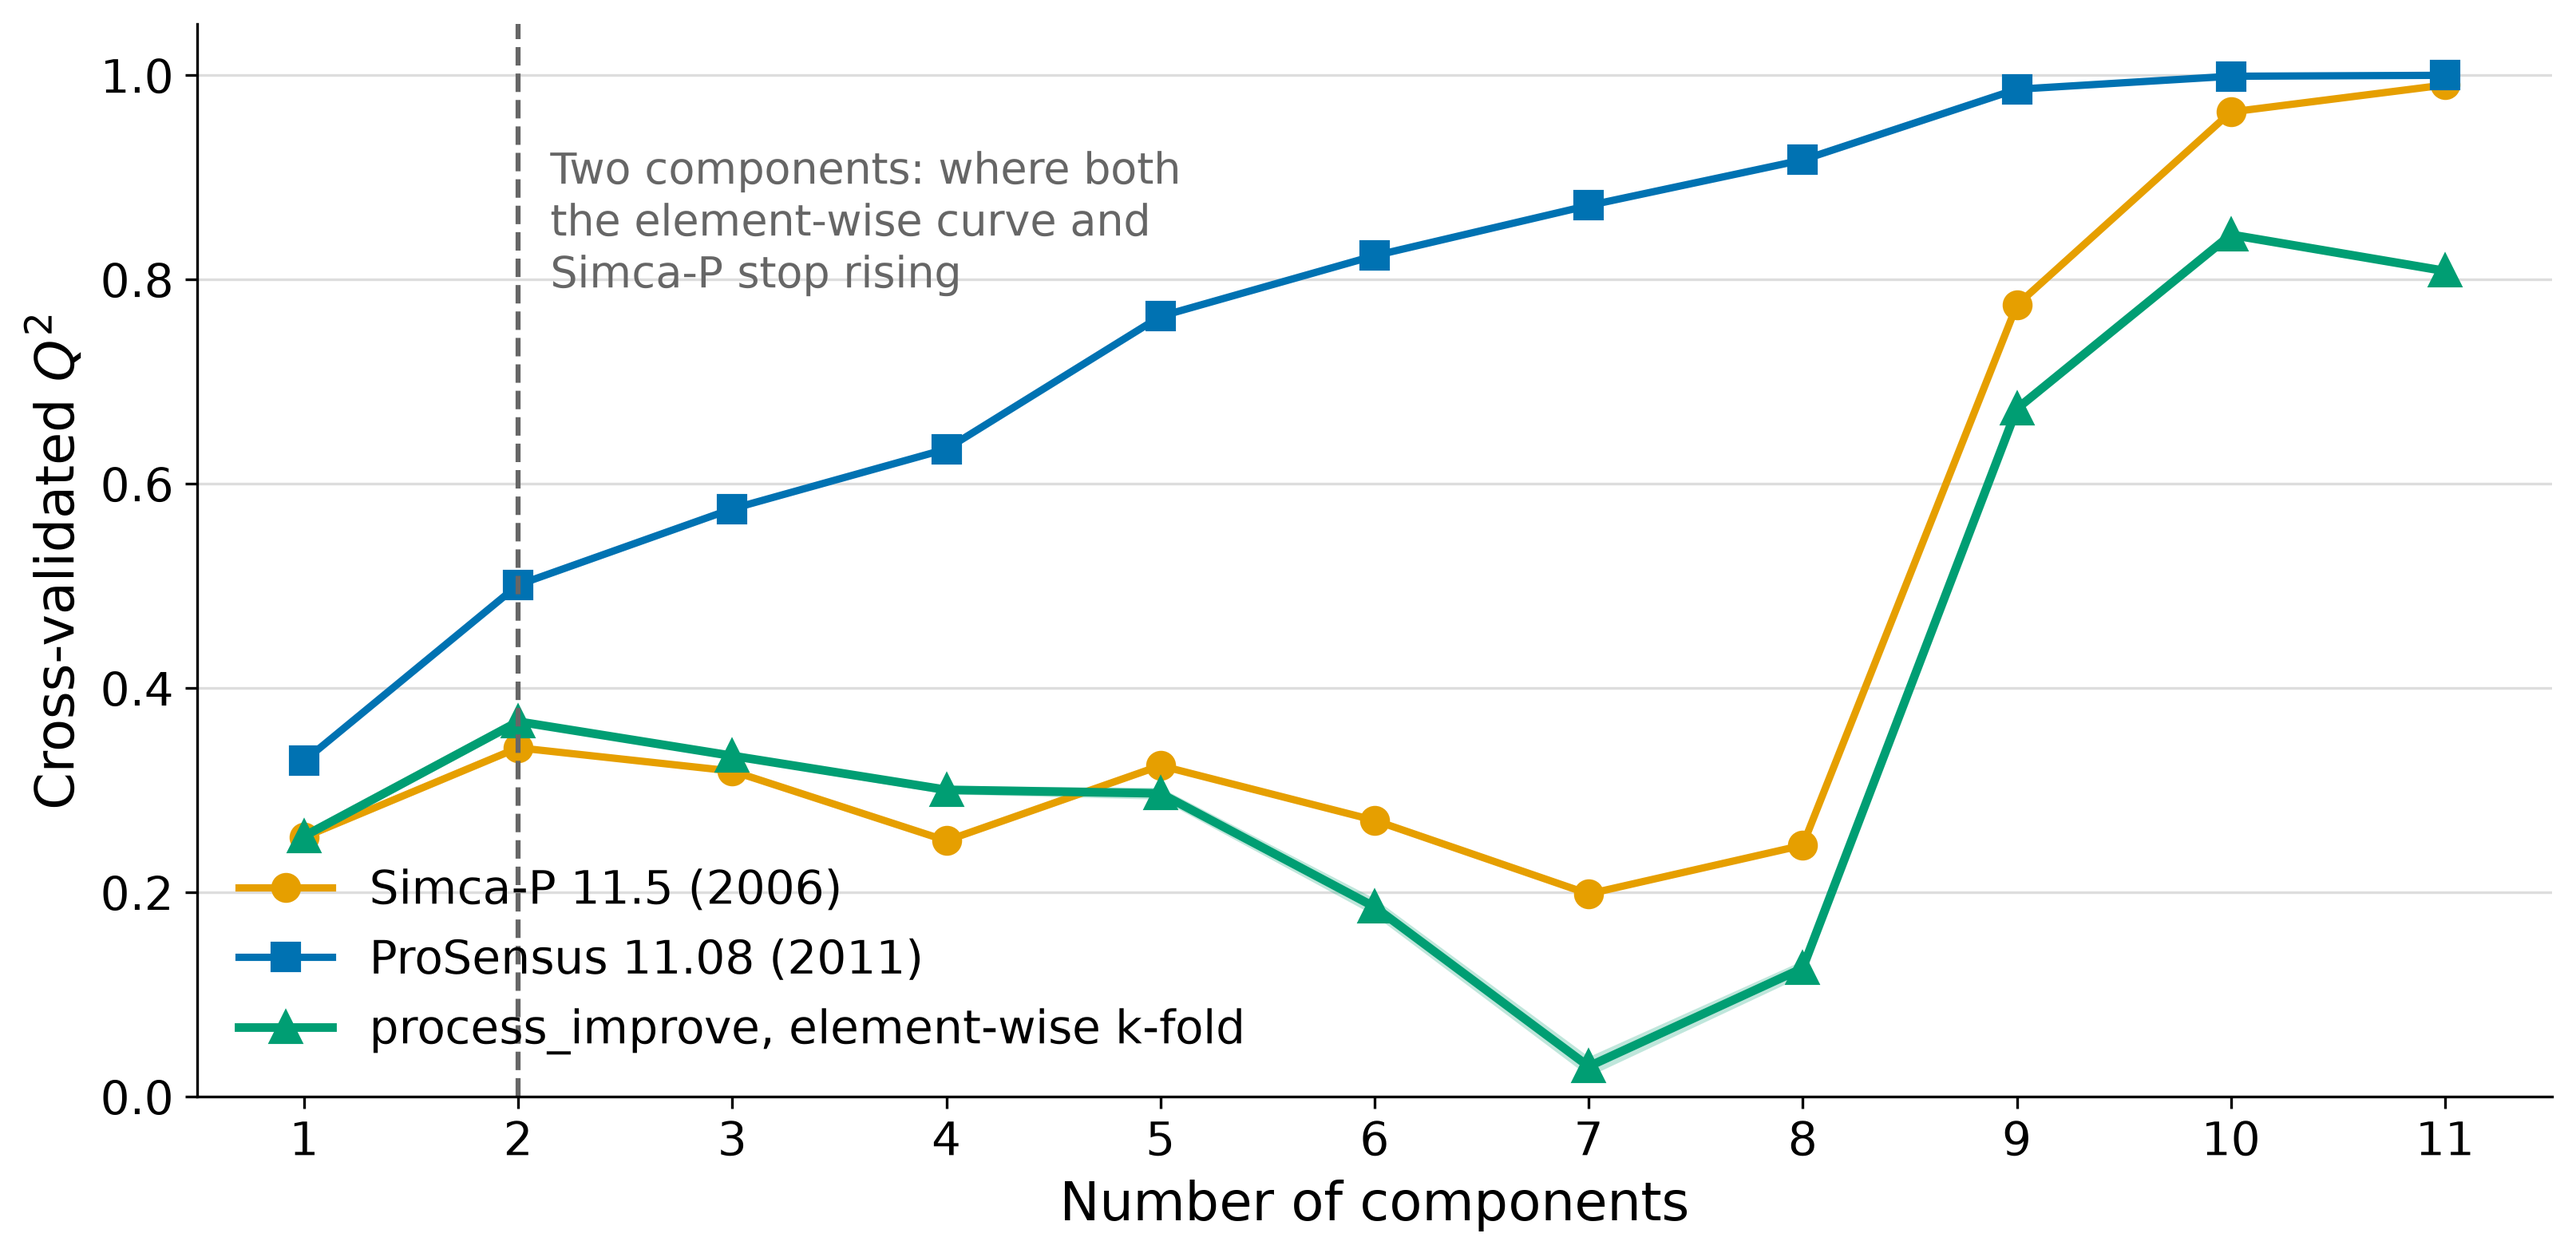
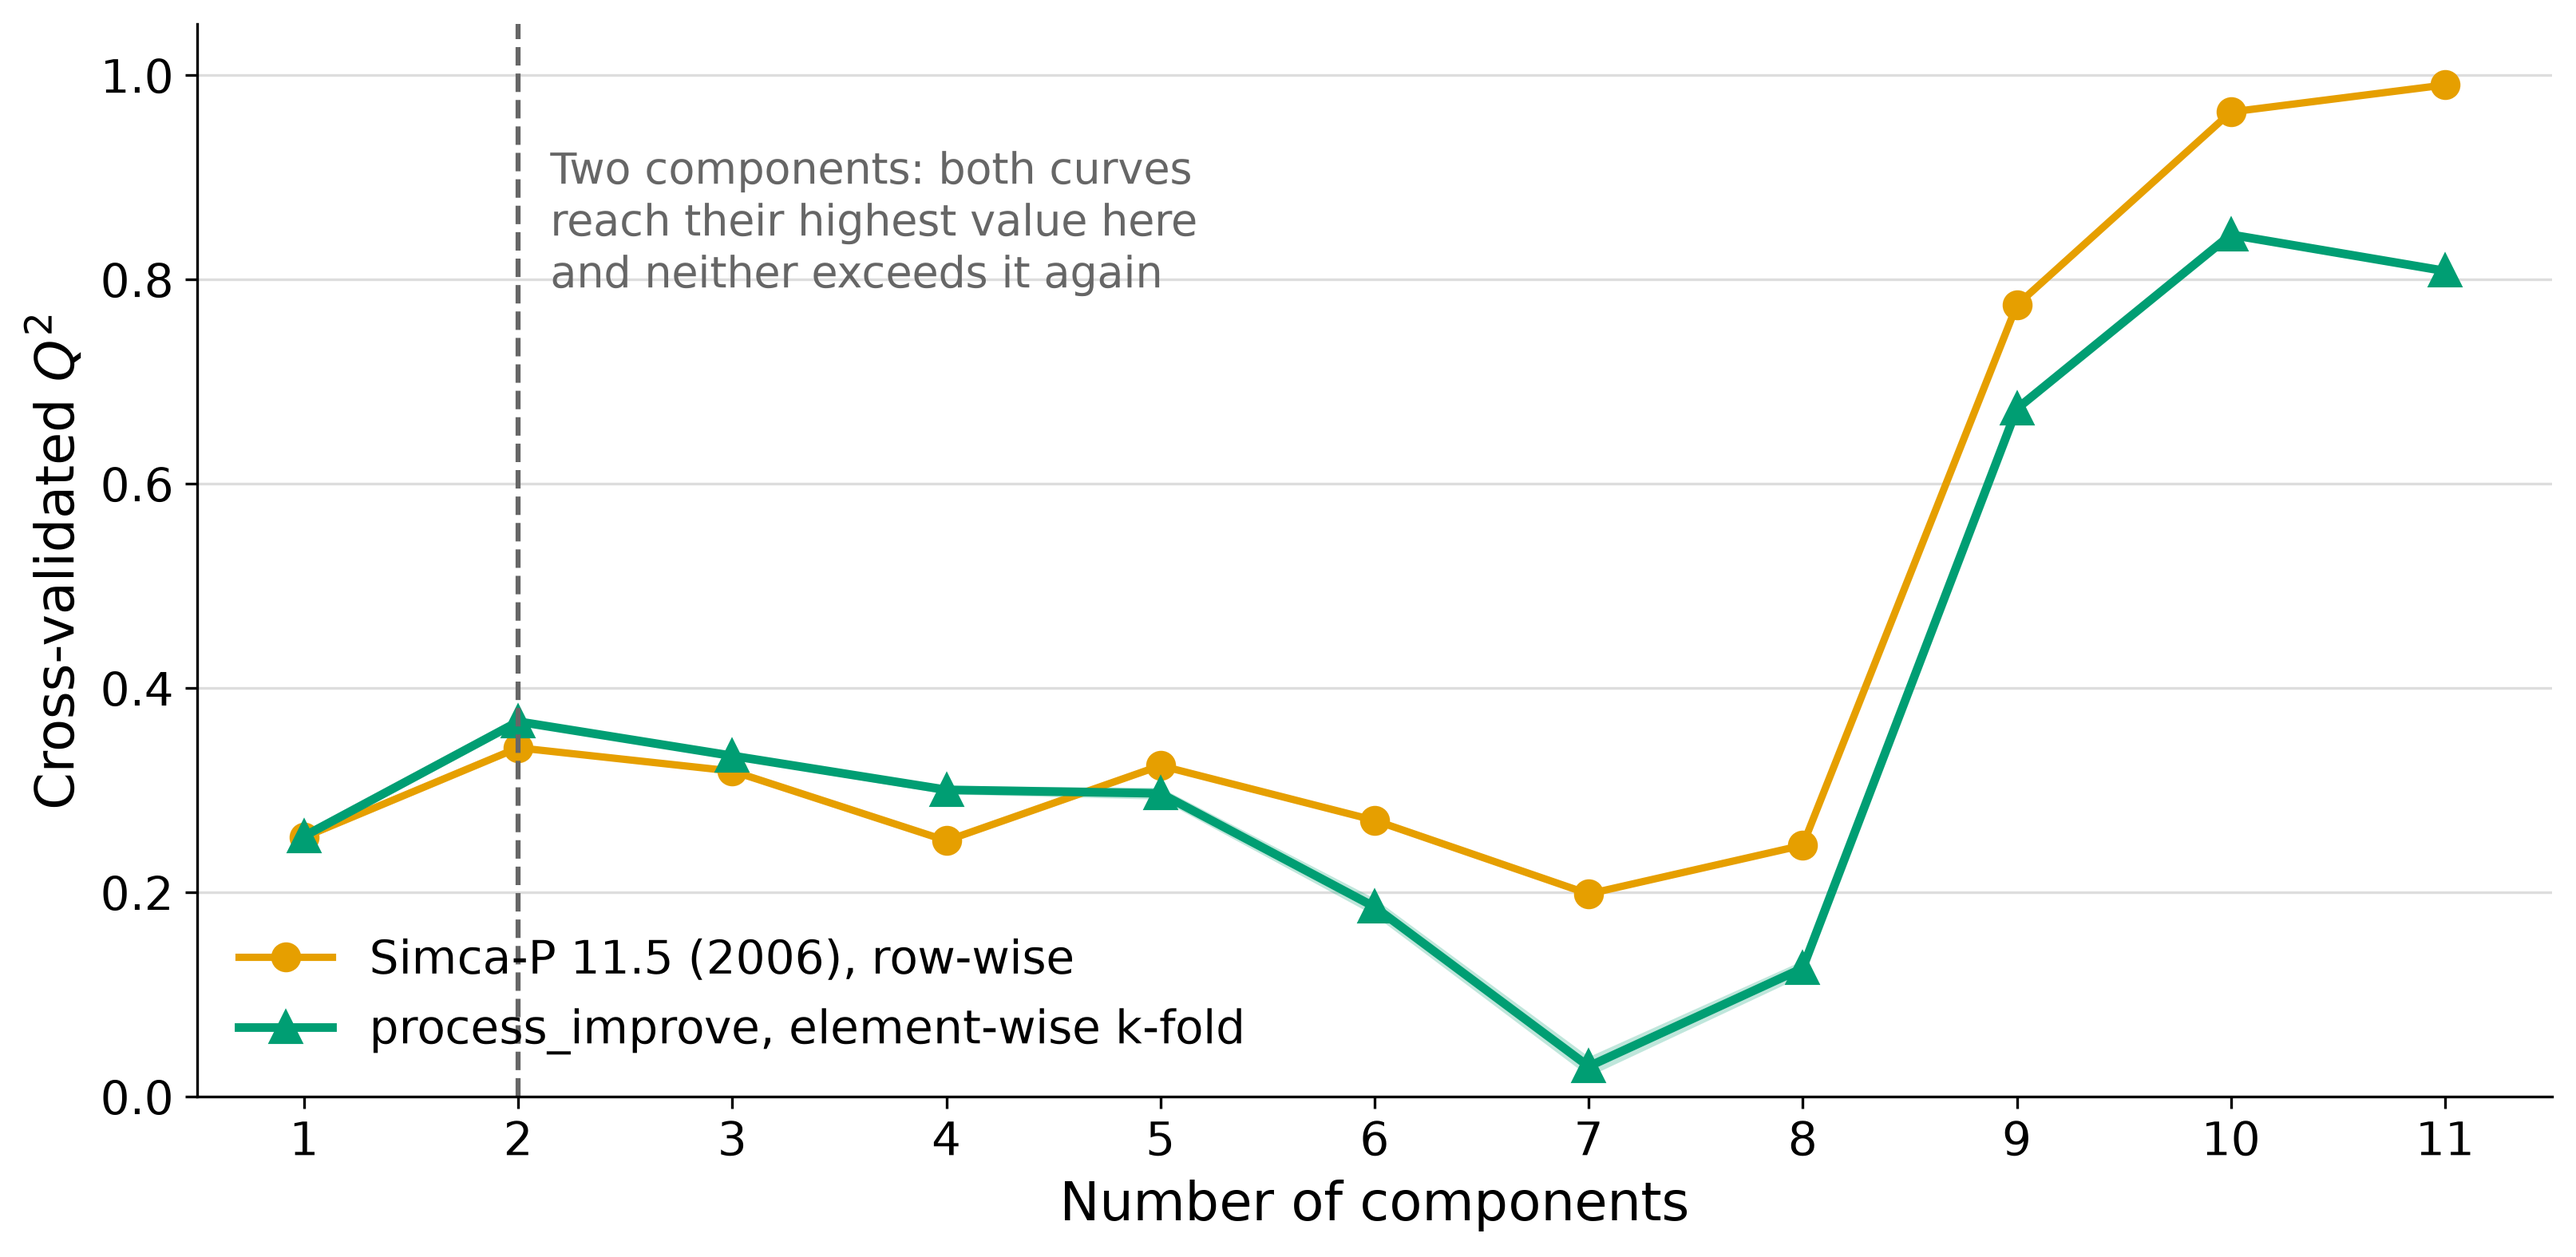
Leave ProSensus out of the Q-squared comparison
That software is no longer available, so a reader cannot check the
curve or reproduce it, and a comparison against something unobtainable
is not much use to them. The figure now shows Simca-P's row-wise
Q-squared beside the element-wise one computed here.

Its recorded numbers stay in the Q2 table and it keeps its own
barplot-for-R2-and-Q2-ProSensus.png, which is the record of what the R
script drew; only the new comparison drops it.

diff --git a/pca/pca_diagnostic_figures.py b/pca/pca_diagnostic_figures.py
@@ -9,8 +9,8 @@ Three committed PNGs, replacing the base-R output of
 - ``barplot-for-R2-and-Q2.png``: cumulative R-squared beside cumulative
   Q-squared for the LDPE case study, showing where cross-validation stops
   rewarding extra components.
-- ``q2-across-packages.png``: the same Q-squared from all three sources,
-  the two commercial packages and ``process_improve``, on one axis.
+- ``q2-across-packages.png``: the Q-squared Simca-P reported beside the
+  element-wise one computed by ``process_improve``, on one axis.
 
 The scree plots are computed from ``distillation-tower.csv`` on openmv.net.
 The R-squared and Q-squared values are outputs of two commercial packages
@@ -18,16 +18,22 @@ The R-squared and Q-squared values are outputs of two commercial packages
 recomputed here, so they are carried as the literals the R script recorded,
 with the package and version named alongside them.
 
-The third curve is computed here, by ``process_improve``'s
+The second curve is computed here, by ``process_improve``'s
 ``PCA.select_n_components`` with ``cv_scheme="ekf"``: the element-wise
 k-fold scheme of Bro et al. (2008), which holds out scattered individual
 cells of X and predicts each from a model that never saw it. That is the
 scheme the chapter recommends over the row-wise one, so the figure shows
-what it gives on the same data the two packages were run on.
+what it gives on the same data Simca-P was run on.
+
+ProSensus Multivariate is left out of the comparison figure: that software
+is no longer available, so a reader cannot check the curve or reproduce it.
+Its recorded numbers stay in ``Q2`` below and it keeps its own
+``barplot-for-R2-and-Q2-ProSensus.png``, which is the record of what the R
+script drew.
 
 The same run reproduces the R-squared the commercial packages recorded,
 to within 4.4e-07 over all eleven components, which is what establishes
-that the three curves are computed on the same data with the same
+that the two curves are computed on the same data with the same
 preprocessing and so can be compared at all.
 
 Defects in the originals corrected here:
@@ -247,9 +253,7 @@ def q2_comparison(outdir: pathlib.Path) -> None:
     fig, ax = plt.subplots(figsize=(11, 5.5))
     ax.grid(axis="y", color=GRID, linewidth=0.8)
     ax.plot(components, Q2["Simca-P 11.5"], "-o", color=ORANGE, linewidth=2.2,
-            markersize=8, label="Simca-P 11.5 (2006)")
-    ax.plot(components, Q2["ProSensus 11.08"], "-s", color=BLUE, linewidth=2.2,
-            markersize=8, label="ProSensus 11.08 (2011)")
+            markersize=8, label="Simca-P 11.5 (2006), row-wise")
     ax.plot(components, q2, "-^", color=GREEN, linewidth=2.6, markersize=9,
             label="process_improve, element-wise k-fold")
     # The band is the spread over five fold permutations. It is narrow
@@ -257,7 +261,7 @@ def q2_comparison(outdir: pathlib.Path) -> None:
     ax.fill_between(components, q2 - q2_se, q2 + q2_se, color=GREEN, alpha=0.25,
                     linewidth=0)
     ax.axvline(2, color=GREY, linestyle="--", linewidth=1.5)
-    ax.annotate("Two components: where both\nthe element-wise curve and\nSimca-P stop rising",
+    ax.annotate("Two components: both curves\nreach their highest value here\nand neither exceeds it again",
                 (2.15, 0.93), color=GREY, fontsize=13, va="top")
     ax.set_xticks(components)
     ax.set_xlabel("Number of components")
